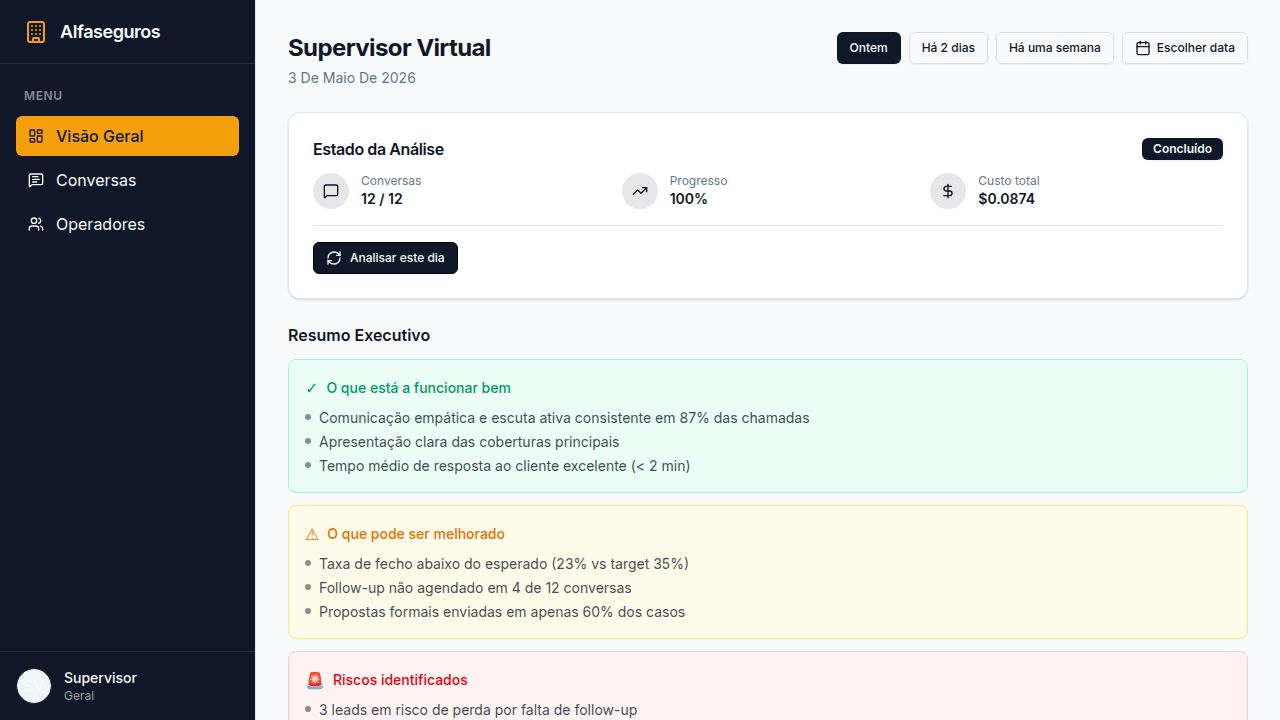
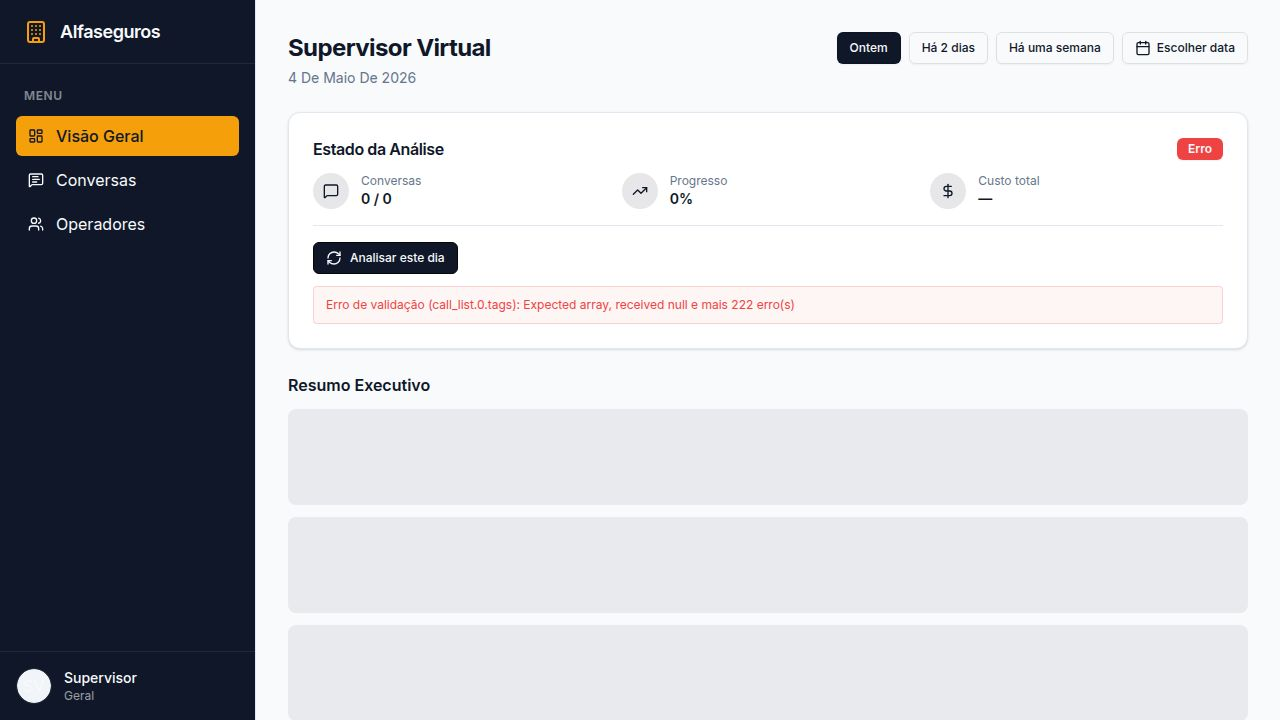
Improve error handling and display for analysis failures
Replace console.error with logger.error and implement a friendlyError function to display validation errors gracefully.

Replit-Commit-Author: Agent
Replit-Commit-Session-Id: cac413b1-a237-4715-ae60-bbcb7b0fa47d
Replit-Commit-Checkpoint-Type: full_checkpoint
Replit-Commit-Event-Id: e6bfa37f-a95b-4142-92ea-e92fb30b3063
Replit-Commit-Screenshot-Url: https://storage.googleapis.com/screenshot-production-us-central1/5154fd1b-95e4-4383-9a97-3981c6a8bcf9/cac413b1-a237-4715-ae60-bbcb7b0fa47d/a65YerO
Replit-Helium-Checkpoint-Created: true

diff --git a/artifacts/supervisor/src/pages/dashboard.tsx b/artifacts/supervisor/src/pages/dashboard.tsx
@@ -21,6 +21,27 @@ import { Popover, PopoverContent, PopoverTrigger } from "@/components/ui/popover
 import { Calendar } from "@/components/ui/calendar";
 import { cn } from "@/lib/utils";
 
+/** Convert a raw error message (possibly a JSON Zod blob) into a readable string. */
+function friendlyError(msg: string): string {
+  // Zod errors are JSON arrays — detect and summarise them.
+  if (msg.trim().startsWith("[")) {
+    try {
+      const issues = JSON.parse(msg) as Array<{ message?: string; path?: unknown[] }>;
+      if (Array.isArray(issues) && issues.length > 0) {
+        const first = issues[0];
+        const path = Array.isArray(first.path) && first.path.length > 0
+          ? ` (${first.path.join(".")})`
+          : "";
+        const extra = issues.length > 1 ? ` e mais ${issues.length - 1} erro(s)` : "";
+        return `Erro de validação${path}: ${first.message ?? "tipo inválido"}${extra}`;
+      }
+    } catch {
+      // fall through to plain truncation
+    }
+  }
+  return msg.length > 200 ? `${msg.slice(0, 200)}…` : msg;
+}
+
 const sectionStyles = [
   {
     key: "workingWell" as const,
@@ -205,22 +226,26 @@ export default function Dashboard() {
             <p className="text-sm text-muted-foreground">Nenhuma análise encontrada para esta data.</p>
           )}
 
-          <div className="mt-4 pt-4 border-t flex items-center gap-3">
-            <Button
-              size="sm"
-              disabled={trigger.isPending || run?.status === "running"}
-              onClick={() => trigger.mutate({ data: { date: dateStr } })}
-              className="gap-2"
-            >
-              {trigger.isPending || run?.status === "running" ? (
-                <Loader2 className="h-3.5 w-3.5 animate-spin" />
-              ) : (
-                <RefreshCw className="h-3.5 w-3.5" />
-              )}
-              Analisar este dia
-            </Button>
+          <div className="mt-4 pt-4 border-t flex flex-col gap-3">
+            <div className="flex items-center gap-3">
+              <Button
+                size="sm"
+                disabled={trigger.isPending || run?.status === "running"}
+                onClick={() => trigger.mutate({ data: { date: dateStr } })}
+                className="gap-2"
+              >
+                {trigger.isPending || run?.status === "running" ? (
+                  <Loader2 className="h-3.5 w-3.5 animate-spin" />
+                ) : (
+                  <RefreshCw className="h-3.5 w-3.5" />
+                )}
+                Analisar este dia
+              </Button>
+            </div>
             {run?.errorMessage && (
-              <p className="text-xs text-destructive">{run.errorMessage}</p>
+              <p className="text-xs text-destructive bg-destructive/5 border border-destructive/20 rounded px-3 py-2 leading-relaxed">
+                {friendlyError(run.errorMessage)}
+              </p>
             )}
           </div>
         </CardContent>

diff --git a/artifacts/api-server/src/routes/runs.ts b/artifacts/api-server/src/routes/runs.ts
@@ -10,6 +10,7 @@ import {
 } from "../lib/dates.js";
 import { analyzeDay } from "../jobs/analyze-day.js";
 import { subscribeRunEvents } from "../jobs/bus.js";
+import { logger } from "../lib/logger.js";
 
 const router: IRouter = Router();
 
@@ -80,8 +81,7 @@ router.post("/run", async (req, res): Promise<void> => {
   void analyzeDay({ date, force }).catch((err: unknown) => {
     // analyzeDay already records failure on the runs row. This catch keeps the
     // unhandled-rejection from crashing the process.
-    // eslint-disable-next-line no-console
-    console.error("analyzeDay failed", { date, err });
+    logger.error({ date, err }, "analyzeDay failed");
   });
 });
 
